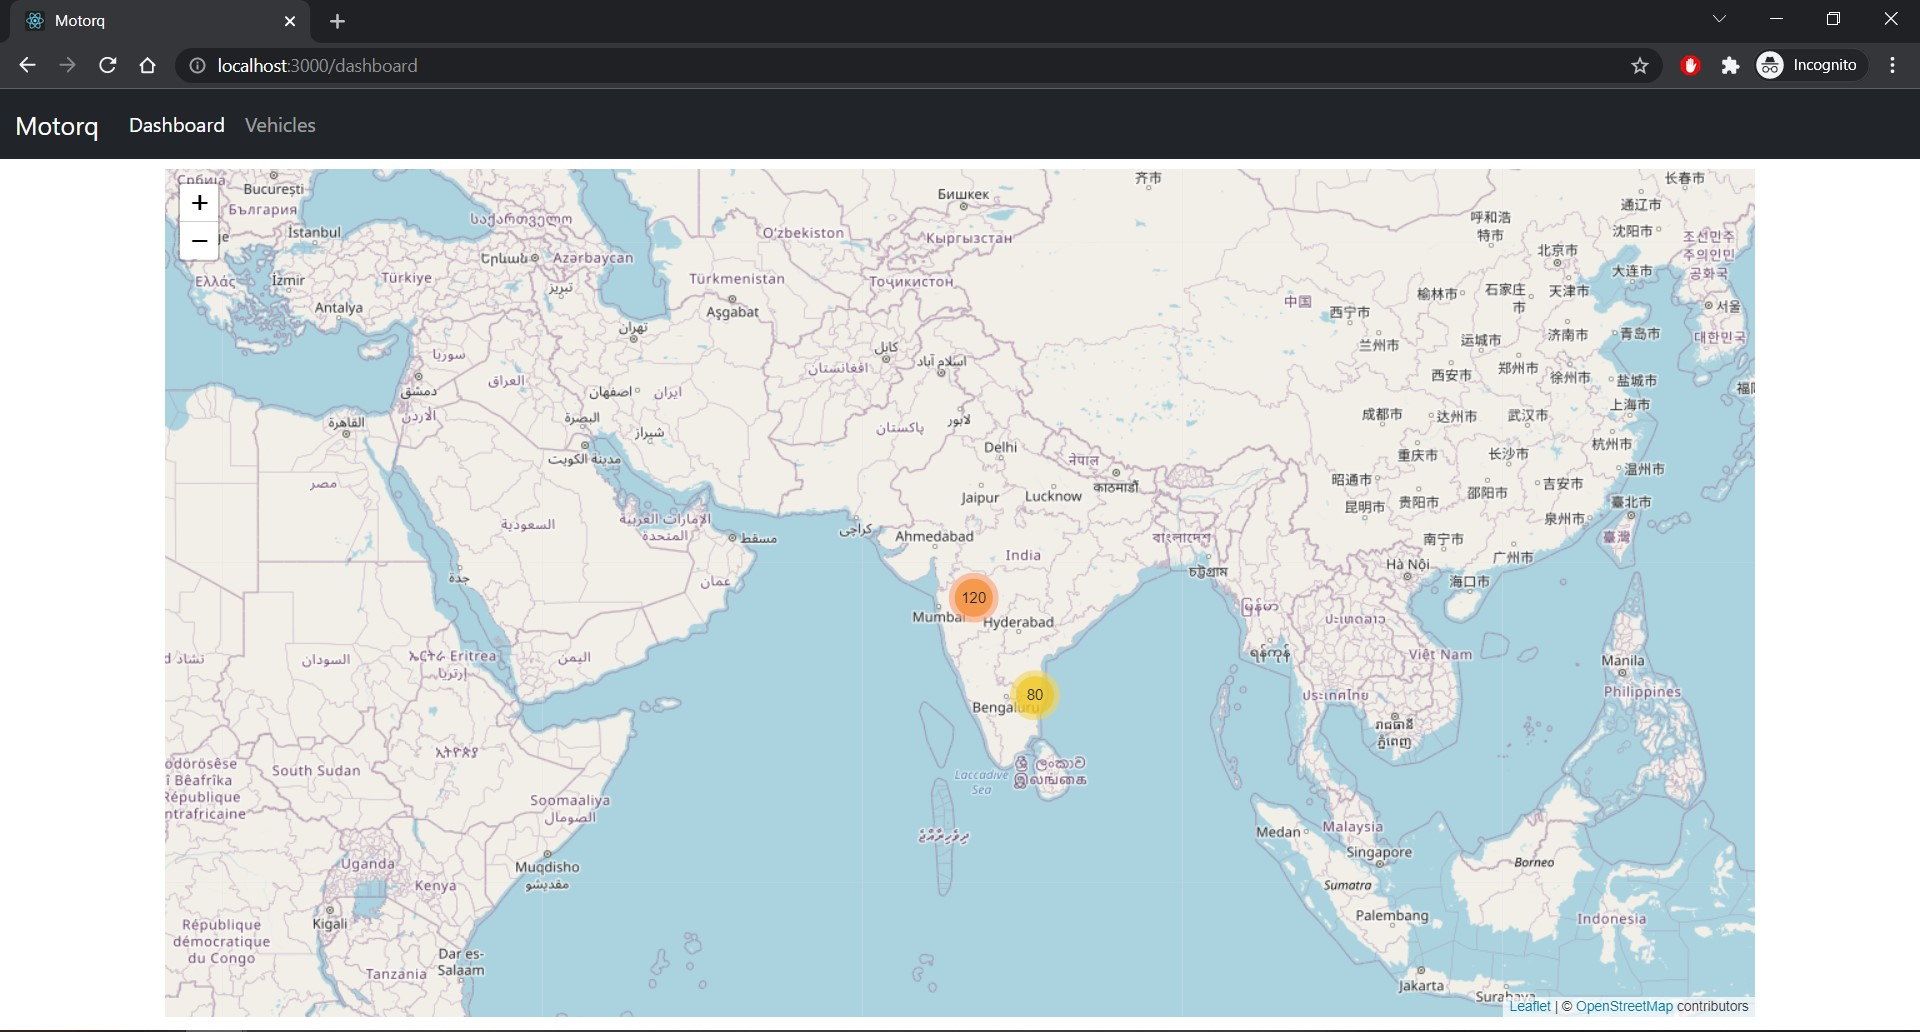
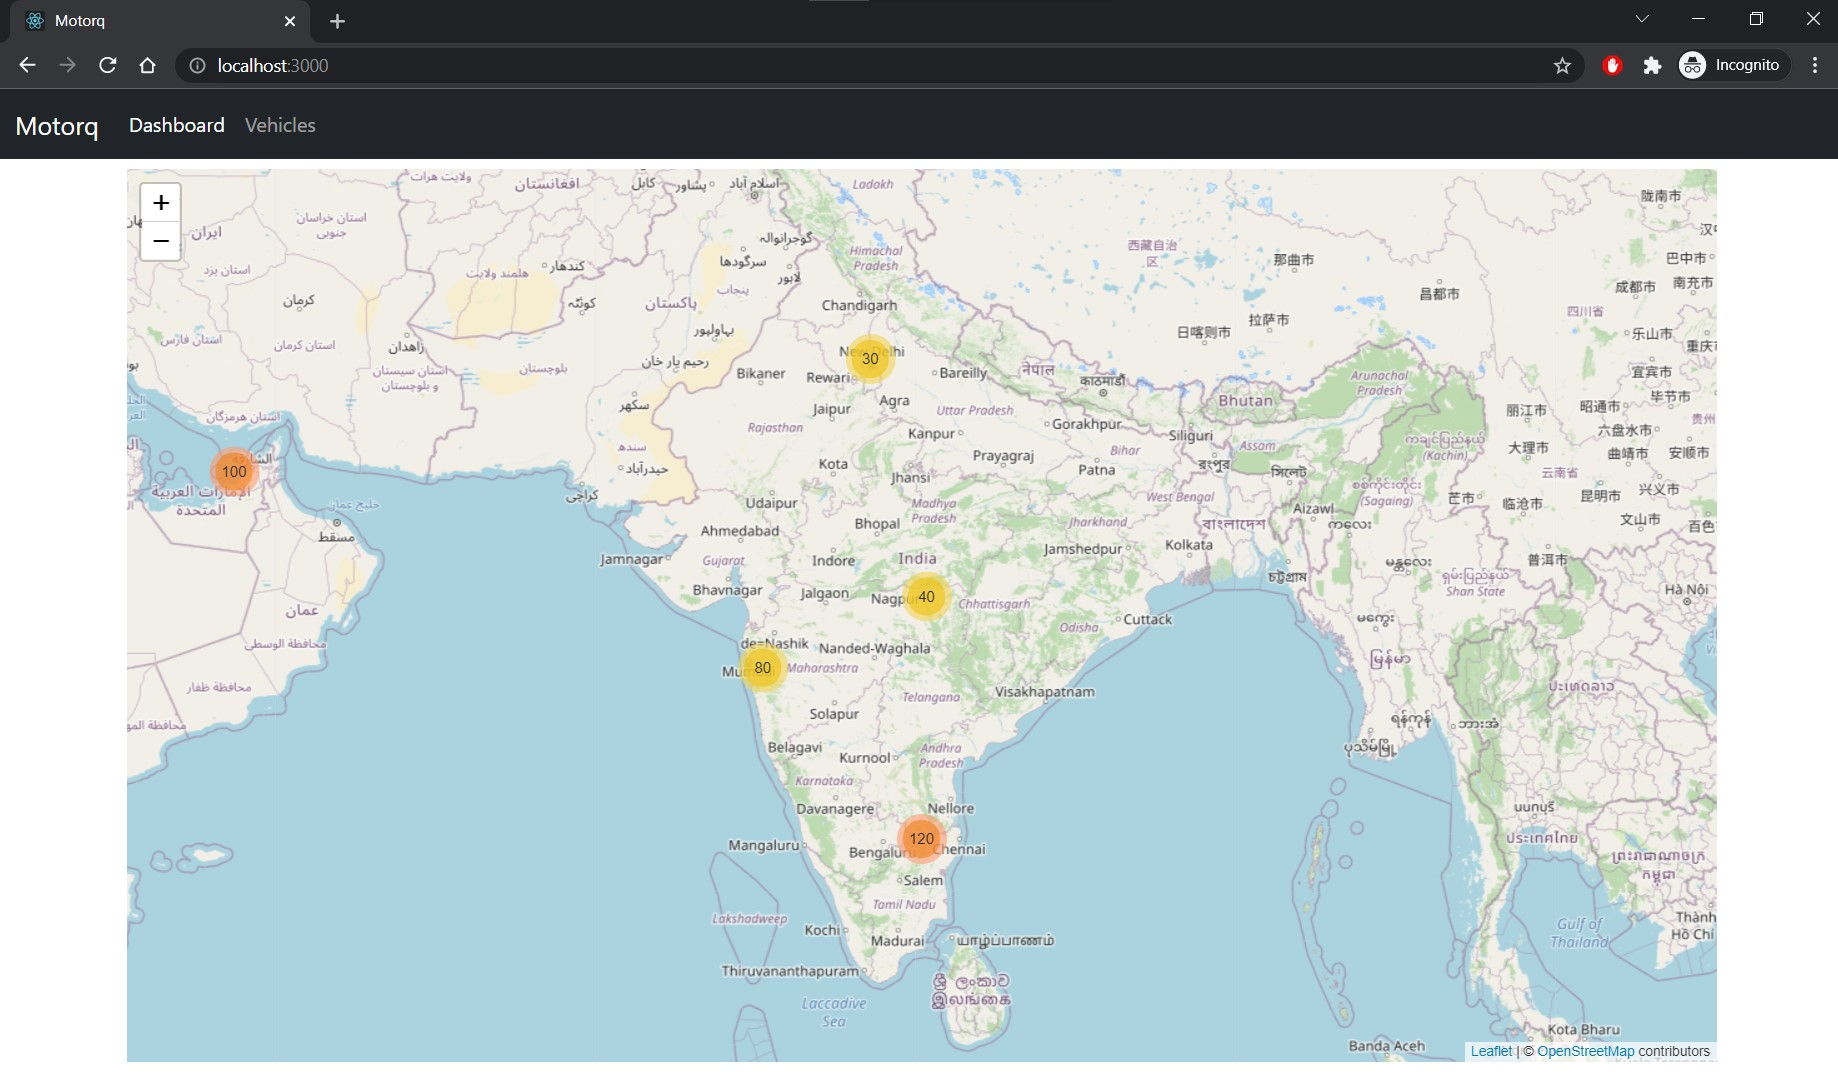
Video Link

diff --git a/client/src/components/Map.js b/client/src/components/Map.js
@@ -7,18 +7,19 @@ export const Map = () => {
 
   React.useEffect(() => {
     (async () => {
-      const vehicles = await fetch("/api/vehicles")
+      const vehicles = await fetch("/api/vehicles?count=500")
         .then((res) => res.json())
         .then((data) => setData(data));
       console.debug(data, vehicles);
     })();
-  // eslint-disable-next-line react-hooks/exhaustive-deps
+    // eslint-disable-next-line react-hooks/exhaustive-deps
   }, []);
 
   console.log(data);
 
   const ShowData = (props) => {
     if (props.data) {
+      // populate the markers array with location data
       let markers = [];
       for (let i = 0; i < props.data.length; i++) {
         markers.push(
@@ -28,6 +29,7 @@ export const Map = () => {
               props.data[i].Status.location.lon,
             ]}
           >
+            {/* Tool tip for on hover popup */}
             <Tooltip>
               <div className="card" style={{ width: "16rem" }}>
                 <div className="card-body">
@@ -49,7 +51,9 @@ export const Map = () => {
                         {props.data[i].Vin}
                       </h6>
                     </div>
-                    <div className="col card-subtitle mb-2 text-muted">{props.data[i].MMY}</div>
+                    <div className="col card-subtitle mb-2 text-muted">
+                      {props.data[i].MMY}
+                    </div>
                   </div>
                   <div className="row mx-1">
                     <div className="col-8">
@@ -88,7 +92,6 @@ export const Map = () => {
             center={[20.5937, 78.9629]}
             zoom={5}
             className="markercluster-map"
-            // scrollWheelZoom={false}
           >
             <TileLayer
               attribution='&copy; <a href="http://osm.org/copyright">OpenStreetMap</a> contributors'

diff --git a/client/src/components/Vehicles.js b/client/src/components/Vehicles.js
@@ -3,6 +3,7 @@ import { useLocation } from "react-router";
 import { useState, useEffect } from "react";
 import InfiniteScroll from "react-infinite-scroll-component";
 
+// componet for searching the vehicles using params
 export const SearchVehicle = () => {
   const switchParam = (event) => {
     const param = event.target.value;
@@ -64,6 +65,7 @@ export const SearchVehicle = () => {
   );
 };
 
+// component to get data for each vehicle
 export const Vehicle = (props) => {
   const [driver, setDriver] = useState(props.data.Driver);
   const [lp, setlp] = useState(props.data.LicensePlate);
@@ -71,6 +73,8 @@ export const Vehicle = (props) => {
 
   const editVehicle = (id) => {
     console.log("edit", id);
+    // for PATCH (edit) vehicle functionality
+    // driver Input, driver <p>
     const driverI = document.getElementById(id + "-driver");
     const driverP = document.getElementById(id + "-driver-p");
     const lpI = document.getElementById(id + "-lp");
@@ -160,6 +164,7 @@ export const Vehicle = (props) => {
   };
 
   const id = props.data._id;
+  // populate the vehicles data row
   return (
     <tr key={props.data._id}>
       <td>
@@ -225,6 +230,7 @@ export const Vehicle = (props) => {
   );
 };
 
+// component to display the vehicle table
 export const Vehicles = () => {
   const PAGE_NUMBER = 1;
   const [data, setData] = useState(null);
@@ -332,7 +338,6 @@ export const Vehicles = () => {
     <div className="my-2">
       <h3>Vehicle Data</h3>
       <SearchVehicle />
-
       <ShowData data={activeData} />
     </div>
   );

diff --git a/client/src/components/Navbar.js b/client/src/components/Navbar.js
@@ -22,7 +22,11 @@ export const Navbar = (props) => {
         <div className="collapse navbar-collapse" id="navbarSupportedContent">
           <ul className="navbar-nav me-auto mb-2 mb-lg-0">
             <li className="nav-item">
-              <Link className="nav-link active" aria-current="page" to="/dashboard">
+              <Link
+                className="nav-link active"
+                aria-current="page"
+                to="/dashboard"
+              >
                 Dashboard
               </Link>
             </li>
@@ -32,17 +36,6 @@ export const Navbar = (props) => {
               </Link>
             </li>
           </ul>
-          {/* <form className="d-flex">
-            <input
-              className="form-control me-2"
-              type="search"
-              placeholder="Search"
-              aria-label="Search"
-            />
-            <button className="btn btn-outline-success" type="submit">
-              Search
-            </button>
-          </form> */}
         </div>
       </div>
     </nav>

diff --git a/server/routes/vehicles.js b/server/routes/vehicles.js
@@ -3,6 +3,7 @@ const express = require("express");
 const router = express.Router();
 const { Vehicle } = require("../models/vehicle");
 
+// test api to create dummy data
 router.route("/create").post(async (req, res) => {
   for (let i = 11; i < 61; i++) {
     const vehicle = await Vehicle.create({
@@ -25,7 +26,7 @@ router.route("/create").post(async (req, res) => {
 });
 
 router.get("/", async (req, res) => {
-  const queryCount = parseInt(req.query.count || "200");
+  const queryCount = parseInt(req.query.count || "500");
   const queryVin = req.query.vin || "";
   const queryDriver = req.query.driver || "";
   const queryLicensePlate = req.query.licensePlate || "";

diff --git a/README.md b/README.md
@@ -2,7 +2,7 @@
 
 ## Made using MERN Stack
 
-### Video Demo: [link](link)
+### Video Demo: [https://youtu.be/CYAhxozOpiU](https://youtu.be/CYAhxozOpiU)
 
 # UI
 
@@ -54,6 +54,7 @@ Response
 Request
 
 `localhost:9000/api/vehicles/619173491329bf9dbfddb238`
+
 Body
 
 ```json
